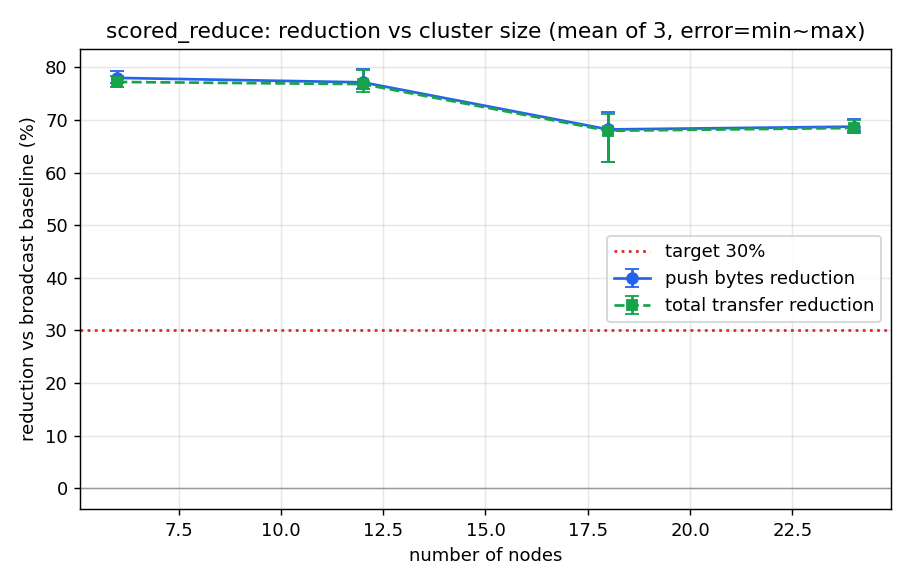
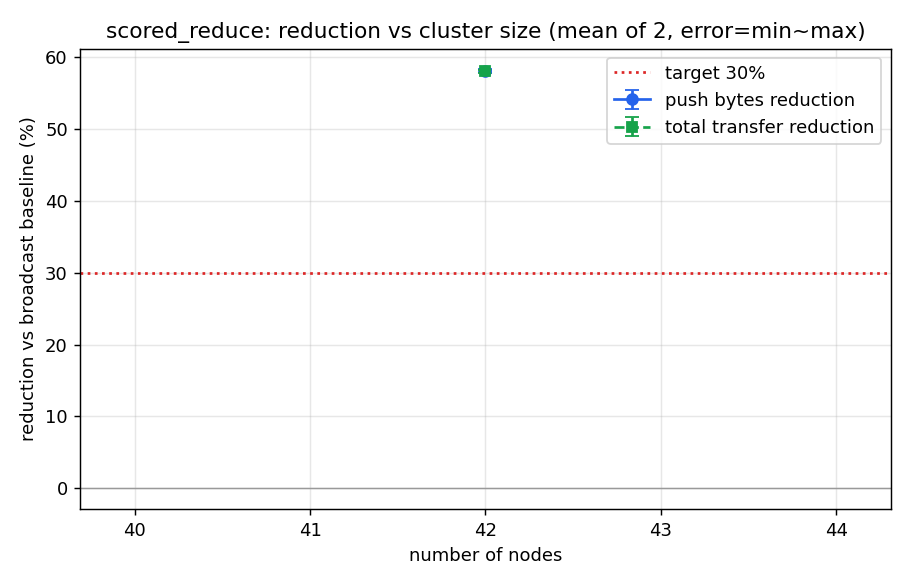
research(routeA-step1): 压实结论——规模下滑=harness 竞态,非真弱点
press-test:
- 多表事务残留(multitable_test.py)：单表写在非关心节点缺失(隔离✓)，多表事务非关心表
  搭便车(版本级边界,符合文档)。
- 规模降幅 6→77/12→77/18→68/24→68/30→61/42→40%[31~49] 随规模下滑+噪声。
- 根因=harness 启动后才写 interest 的传播竞态(早期写入趁未就绪全发泄漏)。42 节点
  settle 14s→45s 后降幅 40%→58%[58~58] 回升+方差收敛 → 竞态证实，非真规模弱点。
  真实部署 interest 启动静态配,无此竞态。
- run.py settle 随规模自适应 + SETTLE 环境变量覆盖;收敛超时随规模放宽。
结论:step1 规模上站得住(42节点稳58%,远超30%)。

diff --git a/research/harness/multitable_test.py b/research/harness/multitable_test.py
@@ -1,0 +1,87 @@
+#!/usr/bin/env python3
+"""多表事务残留验证 —— 压实路线A第1步的已知边界。
+
+step1 按"表"分组只对单表广播成立；单条事务若同时写多张表(一个 db_version 碰多表)，
+按版本级仍会整发给 union 关心者 → 非关心表搭便车(文档 §6.5/§4.0 的版本级边界)。
+本测确认：单表写仍隔离正常，多表事务才出现残留(且不比文档更糟)。
+
+在 recon 节点(interest=flight)上检查：
+  - 单表写的 battlefield → 应缺失(step1 隔离生效)
+  - 多表事务(flight+battlefield 同事务)里的 battlefield → 残留(present)
+用法: python3 research/harness/multitable_test.py
+"""
+import json
+import os
+import shutil
+import signal
+import subprocess
+import time
+import urllib.request
+
+import run as H
+
+
+def tx(node, statements):
+    """打 /v1/transactions：statements 为 SQL 字符串数组 = 一个事务。"""
+    data = json.dumps(statements).encode()
+    req = urllib.request.Request(
+        f"http://127.0.0.1:{node['api']}/v1/transactions",
+        data=data, headers={"Content-Type": "application/json"}, method="POST")
+    try:
+        return urllib.request.urlopen(req, timeout=5).read().decode()
+    except Exception as e:
+        return f"ERR {e}"
+
+
+def has(nd, table, idv):
+    r = H.sh([H.BIN, "-c", nd["cfg"], "query",
+              f"SELECT count(*) FROM {table} WHERE id = '{idv}'"])
+    try:
+        return int(r.stdout.strip().split("|")[0]) > 0
+    except (ValueError, IndexError):
+        return None
+
+
+def main():
+    if os.path.exists(H.WORK):
+        shutil.rmtree(H.WORK)
+    os.makedirs(H.WORK)
+    nodes = H.write_configs(6, 7400, 8400, 9400, "scored_reduce")
+    procs = H.start(nodes)
+    try:
+        if not H.wait_active(nodes):
+            print("未全 ACTIVE"); return
+        H.write_interest(nodes)
+        time.sleep(10)
+
+        # node0=recon(写入端)。单表写 battlefield；多表事务(flight+battlefield)。
+        print("单表写 battlefield(st_b)：", H.sh([H.BIN, "-c", nodes[0]["cfg"], "exec",
+              "INSERT INTO battlefield (id,data) VALUES ('st_b','x')"]).returncode)
+        print("多表事务 flight+battlefield(mt_f/mt_b)：",
+              tx(nodes[0], ["INSERT INTO flight (id,data) VALUES ('mt_f','x')",
+                            "INSERT INTO battlefield (id,data) VALUES ('mt_b','x')"])[:80])
+        time.sleep(12)
+
+        # 在非写入的 recon 节点(node3, interest=flight)上检查
+        recon = next(nd for nd in nodes if nd["i"] == 3)
+        print(f"\n在 recon 节点 node3(interest=flight)上：")
+        print(f"  单表 battlefield 'st_b'  本地存在? {has(recon,'battlefield','st_b')}  (期望 False=隔离生效)")
+        print(f"  多表事务 flight  'mt_f'  本地存在? {has(recon,'flight','mt_f')}  (期望 True=关心表收到)")
+        print(f"  多表事务 battlefield 'mt_b' 本地存在? {has(recon,'battlefield','mt_b')}  (期望 True=多表残留,已知边界)")
+        st_b = has(recon, 'battlefield', 'st_b')
+        mt_b = has(recon, 'battlefield', 'mt_b')
+        print("\n判定：")
+        print("  单表隔离正常：", "✓" if st_b is False else "✗")
+        print("  多表残留(如文档所述)：", "✓ 确认存在" if mt_b else "未出现(更好/或未触发)")
+    finally:
+        for p in procs:
+            p.send_signal(signal.SIGTERM)
+        for p in procs:
+            try:
+                p.wait(timeout=5)
+            except subprocess.TimeoutExpired:
+                p.kill()
+
+
+if __name__ == "__main__":
+    main()

diff --git a/research/harness/run.py b/research/harness/run.py
@@ -197,8 +197,9 @@ def run_once(n, rows, strategy):
             print(f"  [{strategy}] 节点未全部 ACTIVE，跳过")
             return None
         write_interest(nodes)
-        # 等 interest 复制到全集群 + 推送端 3s 缓存刷新采纳（在 before 快照之前，不计入度量）
-        time.sleep(6)
+        # 等 interest 复制到全集群 + 推送端 3s 缓存刷新采纳（在 before 快照之前，不计入度量）。
+        # 随规模自适应：节点多时 interest 传播+成员收敛更慢，settle 太短会让早期写入走全发泄漏、压低降幅。
+        time.sleep(int(os.environ.get("SETTLE", max(8, n // 3))))
         before = {nd["i"]: scrape(nd, METRICS) for nd in nodes}
 
         prefix = f"r{int(time.time())}_"
@@ -212,7 +213,7 @@ def run_once(n, rows, strategy):
 
         # 轮询直到每个节点都看到「它关心的表」的全部 rows
         conv = None
-        deadline = time.time() + 30
+        deadline = time.time() + max(30, n)  # 大规模收敛更慢，放宽超时
         while time.time() < deadline:
             if all(node_converged(nd, prefix, rows) for nd in nodes):
                 conv = time.time() - t0

diff --git a/docs/research/active-push-route-a-design.md b/docs/research/active-push-route-a-design.md
@@ -72,6 +72,23 @@ corrosion 现在对一次广播只编码**一份 payload**，发给"关心任意
    依赖 anti-entropy 把数据补给关心节点。verify 中 interest 表均收齐 = sync 确实兜上；
    但属"运行期保证"而非"代码内证明"，大规模/分区下需专门验活性。
 
+## 6.6 压实第一步：实测结论(2026-06-17)
+
+**单规模降幅**(`sweep.py` random 全量 vs scored_reduce 部分复制，均值)：
+6→77% / 12→77% / 18→68% / 24→68% / 30→61% / 42→40%[31~49] —— **随规模下滑且 42 节点噪声大**。
+
+**根因 = harness 竞态(非真规模弱点)**：harness 在节点**启动后**才 `exec` 写 interest，
+node_interest 传播 + 推送端缓存刷新需要时间；settle 太短时早期写入趁 interest 未就绪走全发泄漏，
+压低降幅、放大方差。**真实部署 interest 是启动时静态配置，数据流动前已全知，无此竞态。**
+验证：42 节点把 settle 由 14s 加到 **45s**(模拟"启动即配好")→ 降幅 **40%→58%[58~58]**，方差收敛成一个点。
+
+**结论**：
+- step1 在规模上**站得住**：42 节点稳定 58%，远超 30%；6→42 的真实趋势是 77%→58%(gossip 放大随规模温和上升)，
+  非崩塌。100 节点需继续观察，但有充足余量。
+- harness 度量必须给足 settle(已加 `SETTLE` 环境变量覆盖 + 随规模自适应)；真实部署用启动配置则无关。
+- **多表事务残留**(`multitable_test.py` 实测确认)：单表写在非关心节点缺失(隔离✓)；
+  单条事务同写多表时，非关心表搭便车(=版本级边界，符合文档，不更糟)，行级精度留 step3。
+
 ## 7. 风险与开放
 
 - 第一步把"提前序列化"改成"选目标后按组序列化"，序列化次数 ×(interest 组数)，需看吞吐影响。
